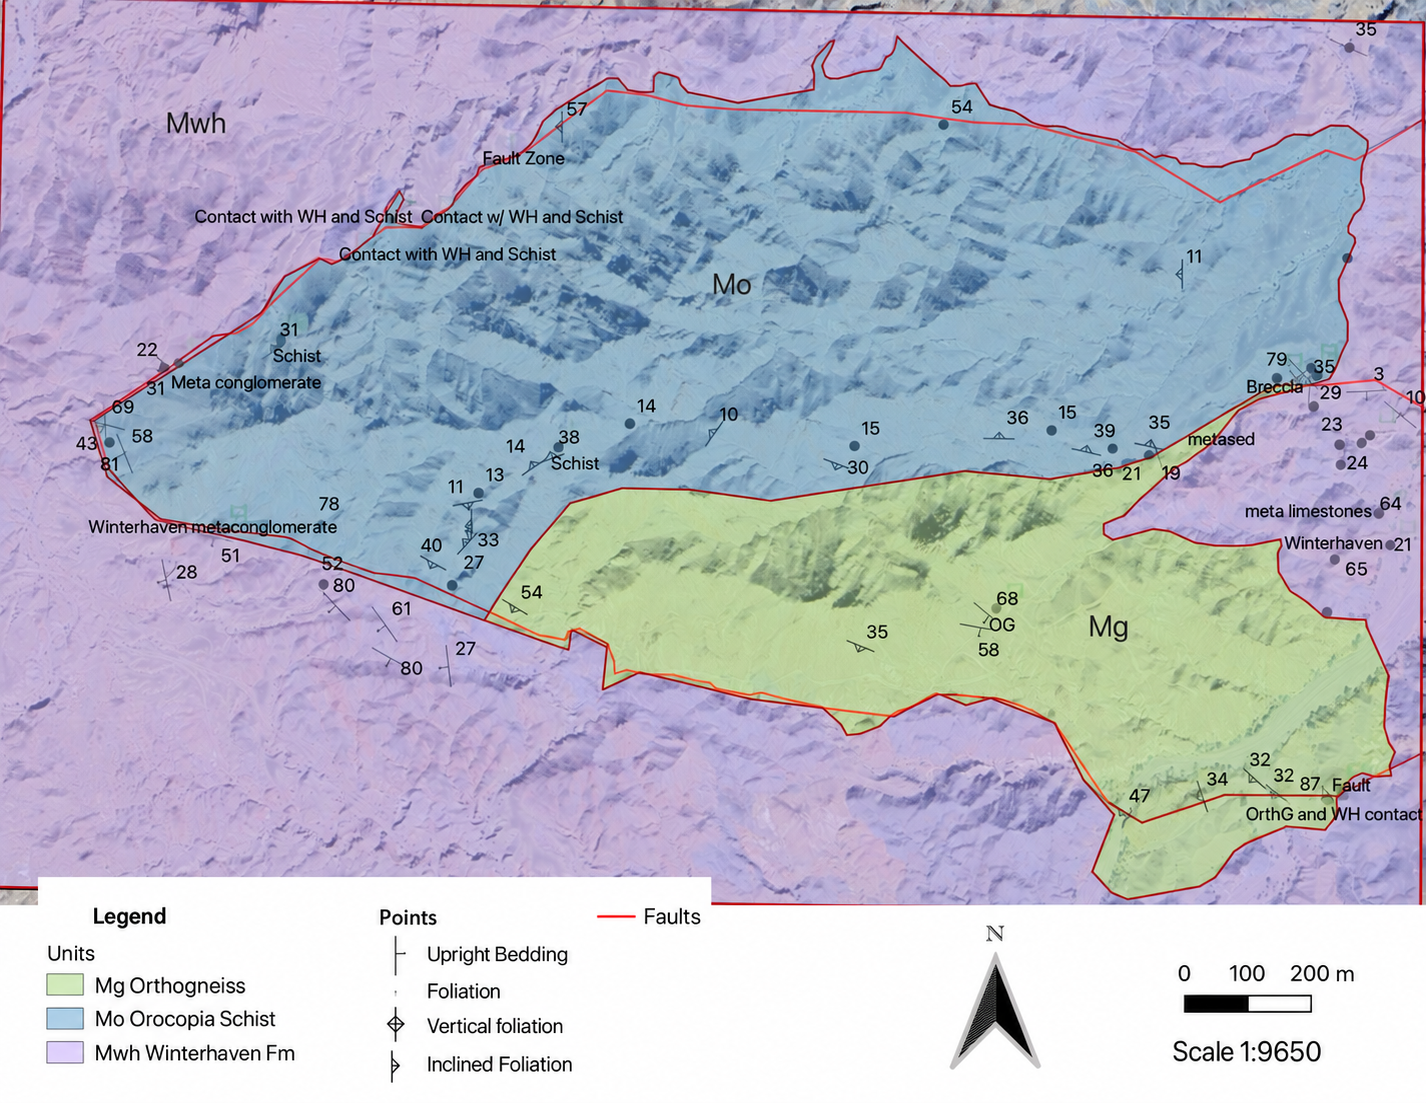
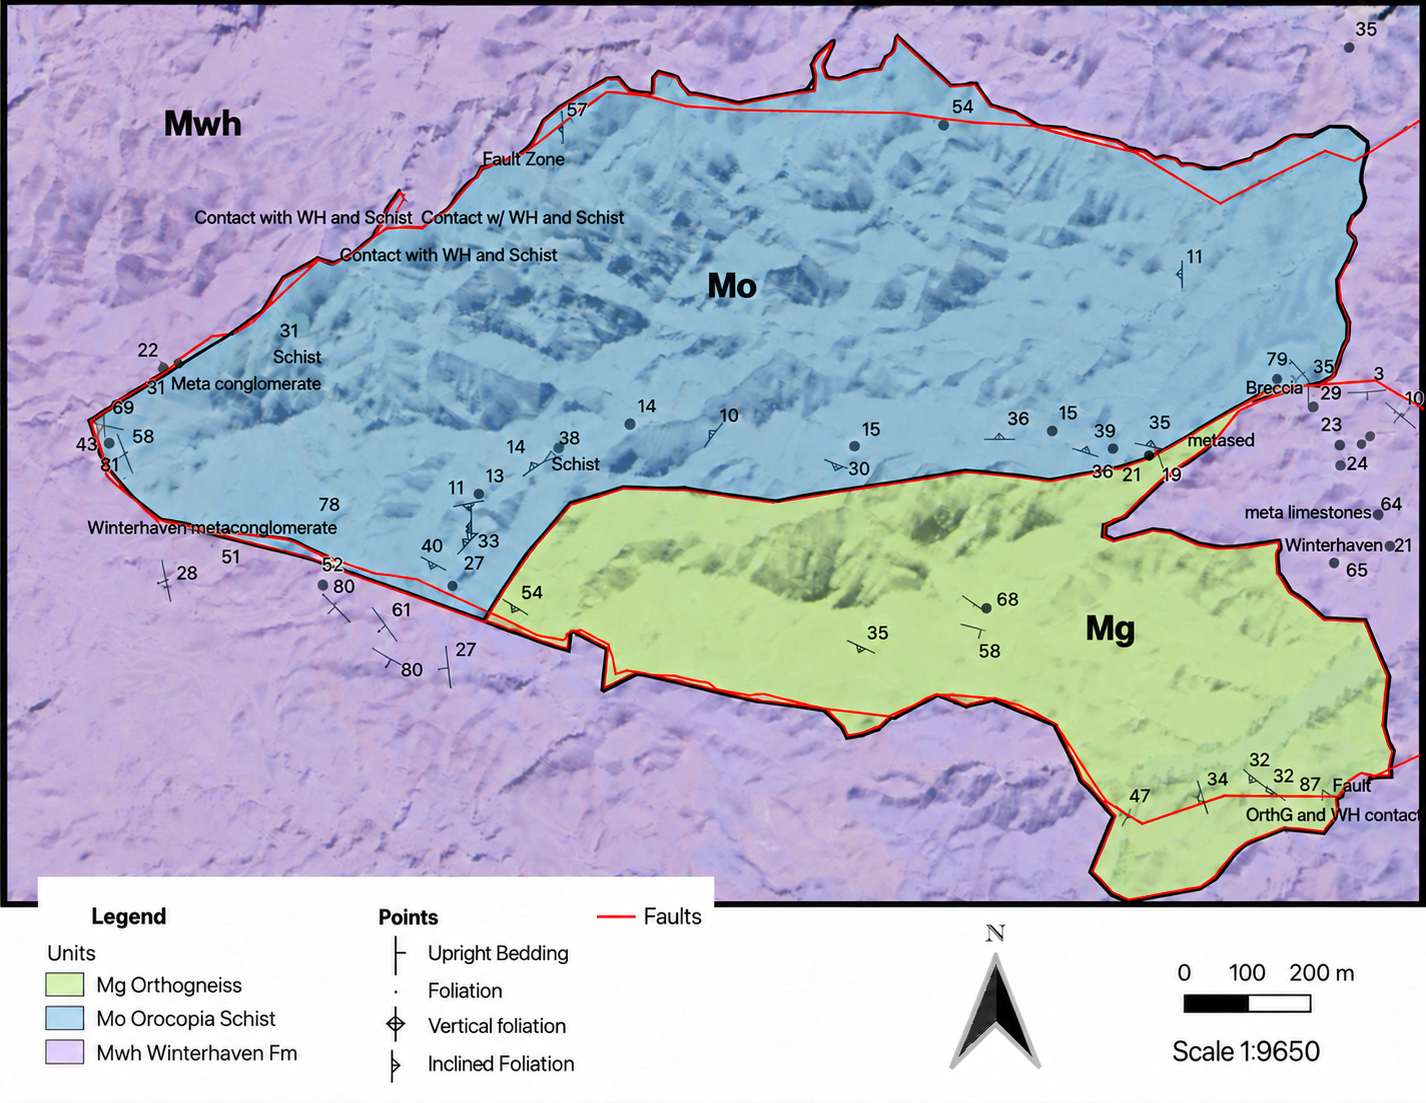
Refine Picacho map outlines and labels

diff --git a/content/research/picacho-peak/index.md b/content/research/picacho-peak/index.md
@@ -18,7 +18,7 @@ The map brings together unit boundaries, fault traces, observation points, and s
 
 <div class="map-figure">
 
-![Geological field map of the Picacho Peak study area showing blue Orocopia Schist, green orthogneiss, and purple Winterhaven Formation over terrain imagery. Thin red fault traces, observation points, orientation measurements, a north arrow, and a 200-metre scale bar are retained.](./geologic-map.png)
+![Geological field map of the Picacho Peak study area showing blue Orocopia Schist, green orthogneiss, and purple Winterhaven Formation over terrain imagery. Bold black unit boundaries, red fault traces, numbered observation points, orientation measurements, a north arrow, and a 200-metre scale bar are shown.](./geologic-map.png)
 
 *Figure 1. The project field map, cleaned up for presentation. The unused cross-section line has been removed and the unit legend corrected. Select the map to enlarge it.*
 
